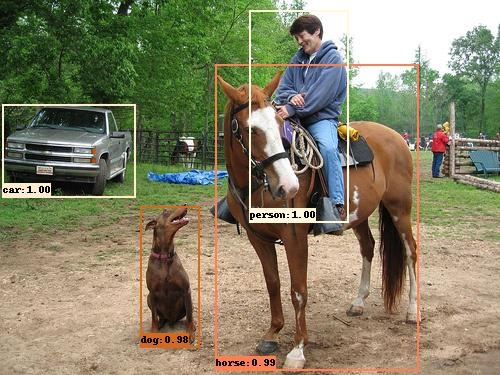
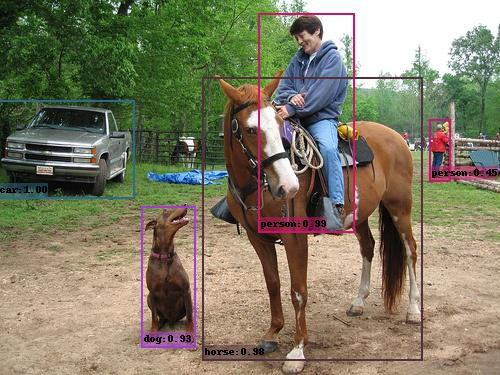
update demo image

Changed region(s): [[0.0, 0.0, 1.0, 0.9973]]

diff --git a/README.md b/README.md
@@ -5,7 +5,7 @@ This repository implements [SSD (Single Shot MultiBox Detector)](https://arxiv.o
 
 <div align="center">
   <img src="figures/004545.jpg" width="500px" />
-  <p>Example SSD output (ssd300_voc0712).</p>
+  <p>Example SSD output (vgg_ssd300_voc0712).</p>
 </div>
 
 | Losses        | Learning rate | Metrics |
